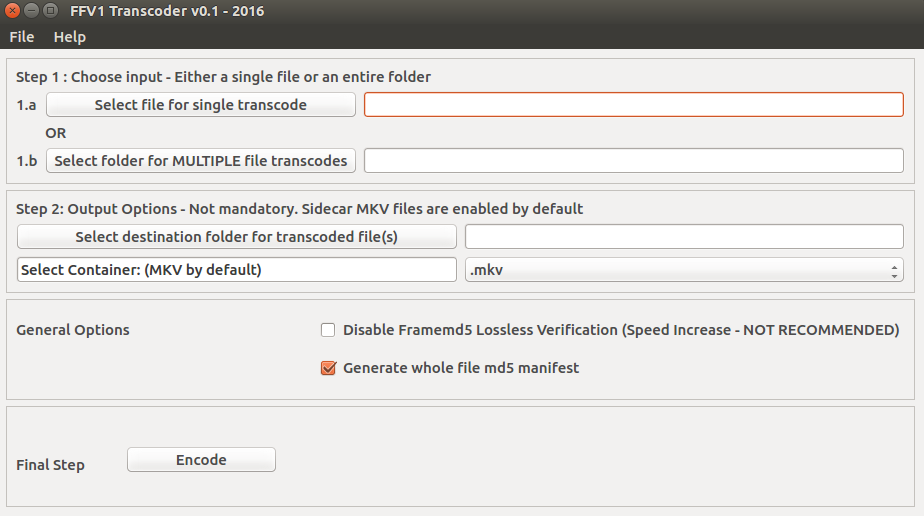
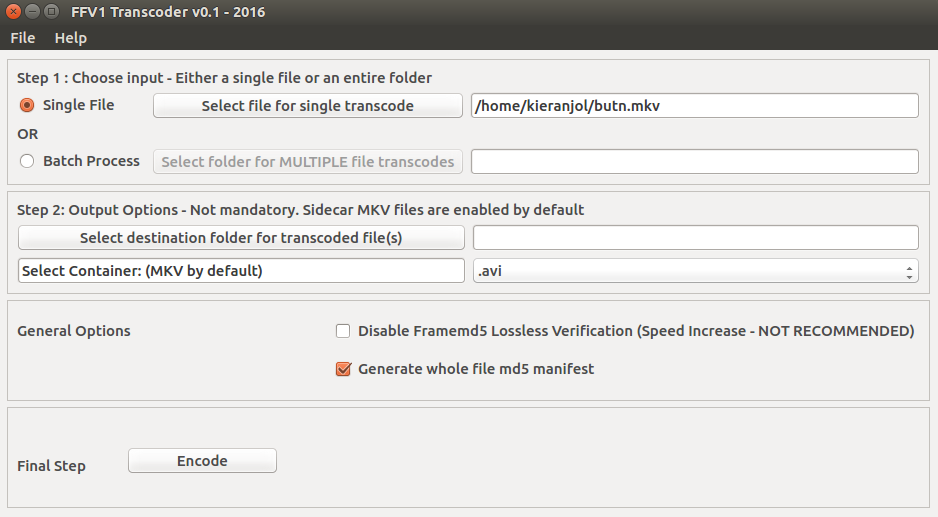
add radio boxes for inputs

diff --git a/design.py b/design.py
@@ -36,39 +36,39 @@ class Ui_MainWindow(object):
         self.frame_5.setObjectName(_fromUtf8("frame_5"))
         self.gridLayout_2 = QtGui.QGridLayout(self.frame_5)
         self.gridLayout_2.setObjectName(_fromUtf8("gridLayout_2"))
-        self.pushButton_2 = QtGui.QPushButton(self.frame_5)
-        self.pushButton_2.setObjectName(_fromUtf8("pushButton_2"))
-        self.gridLayout_2.addWidget(self.pushButton_2, 4, 1, 1, 1)
+        self.batch_button = QtGui.QPushButton(self.frame_5)
+        self.batch_button.setObjectName(_fromUtf8("batch_button"))
+        self.gridLayout_2.addWidget(self.batch_button, 4, 1, 1, 1)
         self.filename_text = QtGui.QLineEdit(self.frame_5)
         self.filename_text.setMinimumSize(QtCore.QSize(450, 0))
         self.filename_text.setObjectName(_fromUtf8("filename_text"))
         self.gridLayout_2.addWidget(self.filename_text, 1, 2, 1, 1)
-        self.label_5 = QtGui.QLabel(self.frame_5)
-        self.label_5.setObjectName(_fromUtf8("label_5"))
-        self.gridLayout_2.addWidget(self.label_5, 2, 1, 1, 1)
-        self.label_3 = QtGui.QLabel(self.frame_5)
-        self.label_3.setObjectName(_fromUtf8("label_3"))
-        self.gridLayout_2.addWidget(self.label_3, 1, 0, 1, 1)
         self.label_2 = QtGui.QLabel(self.frame_5)
         self.label_2.setObjectName(_fromUtf8("label_2"))
         self.gridLayout_2.addWidget(self.label_2, 0, 0, 1, 3)
-        self.label_4 = QtGui.QLabel(self.frame_5)
-        self.label_4.setObjectName(_fromUtf8("label_4"))
-        self.gridLayout_2.addWidget(self.label_4, 4, 0, 1, 1)
         self.btnBrowse = QtGui.QPushButton(self.frame_5)
         self.btnBrowse.setObjectName(_fromUtf8("btnBrowse"))
         self.gridLayout_2.addWidget(self.btnBrowse, 1, 1, 1, 1)
         self.dirname_text = QtGui.QLineEdit(self.frame_5)
         self.dirname_text.setObjectName(_fromUtf8("dirname_text"))
         self.gridLayout_2.addWidget(self.dirname_text, 4, 2, 1, 1)
+        self.radioButton = QtGui.QRadioButton(self.frame_5)
+        self.radioButton.setObjectName(_fromUtf8("radioButton"))
+        self.gridLayout_2.addWidget(self.radioButton, 1, 0, 1, 1)
+        self.radioButton_2 = QtGui.QRadioButton(self.frame_5)
+        self.radioButton_2.setObjectName(_fromUtf8("radioButton_2"))
+        self.gridLayout_2.addWidget(self.radioButton_2, 4, 0, 1, 1)
+        self.label_5 = QtGui.QLabel(self.frame_5)
+        self.label_5.setObjectName(_fromUtf8("label_5"))
+        self.gridLayout_2.addWidget(self.label_5, 2, 0, 1, 1)
         self.label_2.raise_()
-        self.label_3.raise_()
-        self.label_4.raise_()
         self.btnBrowse.raise_()
         self.filename_text.raise_()
-        self.label_5.raise_()
-        self.pushButton_2.raise_()
+        self.batch_button.raise_()
         self.dirname_text.raise_()
+        self.radioButton.raise_()
+        self.radioButton_2.raise_()
+        self.label_5.raise_()
         self.verticalLayout.addWidget(self.frame_5)
         self.frame_4 = QtGui.QFrame(self.centralwidget)
         self.frame_4.setFrameShape(QtGui.QFrame.StyledPanel)
@@ -95,13 +95,7 @@ class Ui_MainWindow(object):
         self.label = QtGui.QLabel(self.frame_4)
         self.label.setObjectName(_fromUtf8("label"))
         self.gridLayout.addWidget(self.label, 0, 0, 1, 2)
-        self.frame_5.raise_()
-        self.frame_5.raise_()
-        self.frame_5.raise_()
         self.label.raise_()
-        self.frame_5.raise_()
-        self.frame_5.raise_()
-        self.frame_5.raise_()
         self.pushButton_3.raise_()
         self.lineEdit_2.raise_()
         self.lineEdit.raise_()
@@ -122,11 +116,6 @@ class Ui_MainWindow(object):
         self.label_6 = QtGui.QLabel(self.frame_3)
         self.label_6.setObjectName(_fromUtf8("label_6"))
         self.gridLayout_3.addWidget(self.label_6, 0, 0, 1, 1)
-        self.frame_4.raise_()
-        self.checkBox.raise_()
-        self.checkBox_2.raise_()
-        self.frame_4.raise_()
-        self.label_6.raise_()
         self.verticalLayout.addWidget(self.frame_3)
         self.frame = QtGui.QFrame(self.centralwidget)
         self.frame.setFrameShape(QtGui.QFrame.StyledPanel)
@@ -169,14 +158,14 @@ class Ui_MainWindow(object):
 
     def retranslateUi(self, MainWindow):
         MainWindow.setWindowTitle(_translate("MainWindow", "FFV1 Transcoder v0.1 - 2016", None))
-        self.pushButton_2.setToolTip(_translate("MainWindow", "<html><head/><body><p>DISABLED - All files are processed.</p></body></html>", None))
-        self.pushButton_2.setText(_translate("MainWindow", "Select folder for MULTIPLE file transcodes", None))
-        self.label_5.setText(_translate("MainWindow", "OR", None))
-        self.label_3.setText(_translate("MainWindow", "1.a", None))
+        self.batch_button.setToolTip(_translate("MainWindow", "<html><head/><body><p>DISABLED - All files are processed.</p></body></html>", None))
+        self.batch_button.setText(_translate("MainWindow", "Select folder for MULTIPLE file transcodes", None))
         self.label_2.setText(_translate("MainWindow", "Step 1 : Choose input - Either a single file or an entire folder", None))
-        self.label_4.setText(_translate("MainWindow", "1.b", None))
         self.btnBrowse.setToolTip(_translate("MainWindow", "<html><head/><body><p>One file is processed</p></body></html>", None))
         self.btnBrowse.setText(_translate("MainWindow", "Select file for single transcode", None))
+        self.radioButton.setText(_translate("MainWindow", "Single File", None))
+        self.radioButton_2.setText(_translate("MainWindow", "Batch Process", None))
+        self.label_5.setText(_translate("MainWindow", "OR", None))
         self.pushButton_3.setToolTip(_translate("MainWindow", "<html><head/><body><p>OPTIONAL - Sidecars are generated by default</p></body></html>", None))
         self.pushButton_3.setWhatsThis(_translate("MainWindow", "<html><head/><body><p><br/></p></body></html>", None))
         self.pushButton_3.setText(_translate("MainWindow", "Select destination folder for transcoded file(s)", None))

diff --git a/main.py b/main.py
@@ -34,6 +34,11 @@ class ExampleApp(QtGui.QMainWindow, design.Ui_MainWindow):
 
         global container
         container = '.mkv' # default - find out a better way of doing this, like 'if not x'
+        self.batch_button.setEnabled(False)
+        self.radioButton.setChecked(True)
+        self.radioButton_2.toggled.connect(self.enable_button)
+        self.radioButton.toggled.connect(self.enable_inputButton)
+        self.checkBox_2.setChecked(True)
         directory = self.btnBrowse.clicked.connect(self.browse_folder)
         #directory = QtCore.QString(directory)
         self.btnBrowse.clicked.connect(self.update_dir)
@@ -41,10 +46,14 @@ class ExampleApp(QtGui.QMainWindow, design.Ui_MainWindow):
         self.pushButton_3.clicked.connect(self.override_output) 
         self.pushButton_3.clicked.connect(self.update_output)
         self.container_selection.activated[str].connect(self.on_combo_activated)
-        
+    def enable_button(self):
+        self.batch_button.setEnabled(True) 
+        self.btnBrowse.setEnabled(False) 
+    def enable_inputButton(self):
+        self.batch_button.setEnabled(False) 
+        self.btnBrowse.setEnabled(True)        
     def browse_folder(self):
         global directory
-        filters = "videos (*.mov *.mxf *.avi *.mkv *.mp4 *.wmv)"
         directory = QtGui.QFileDialog.getOpenFileName(self, 'Open file', 
          '',"Video files (*.mov *.mxf *.avi *.mkv *.mp4 *.wmv *.webm *.ogg *.ogm) ;; All Files(*)")
         return directory
